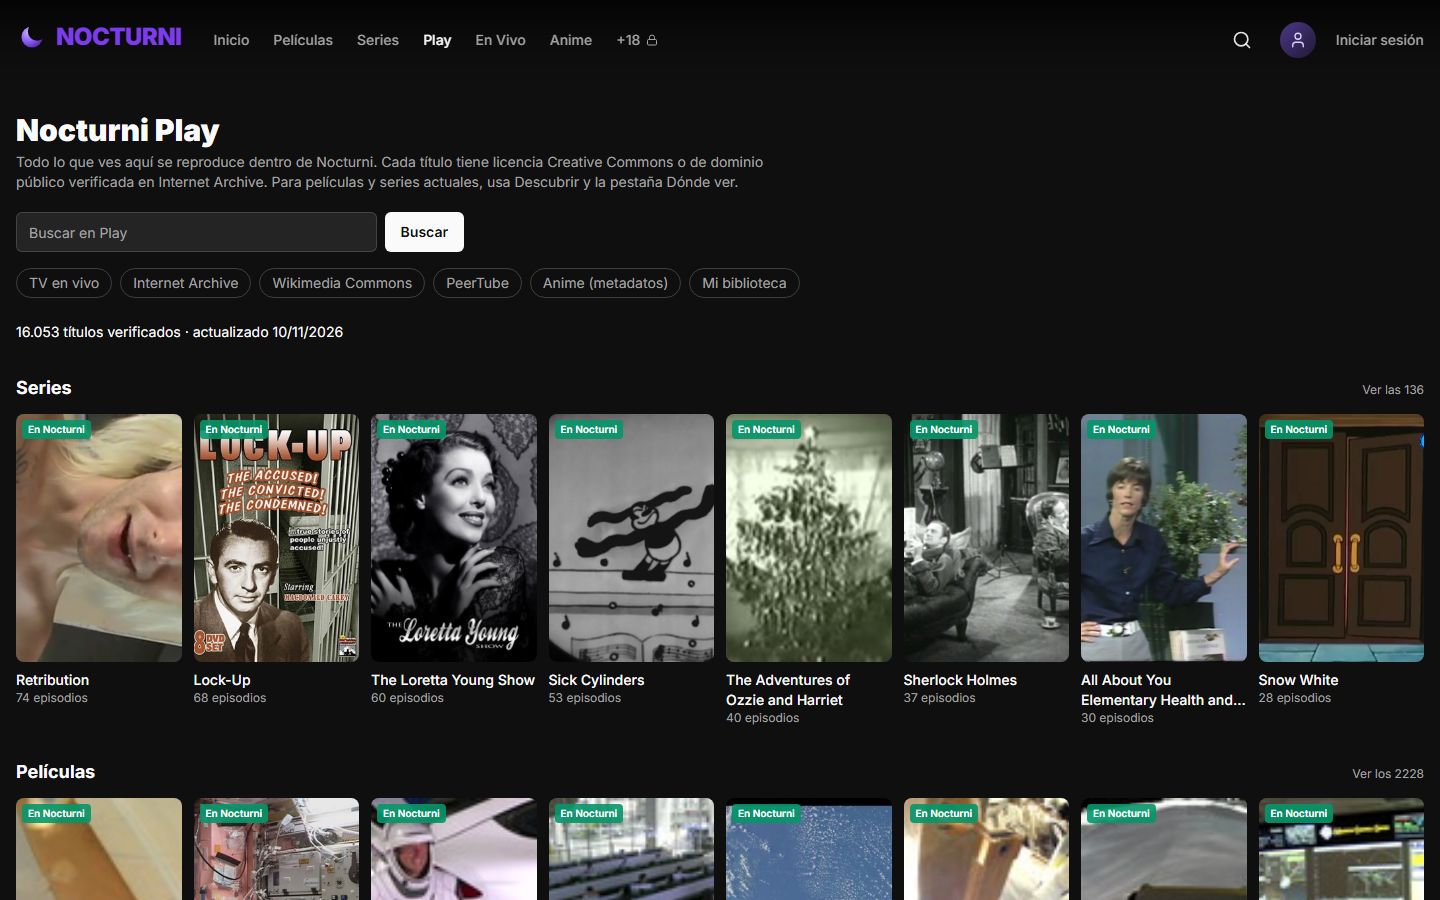
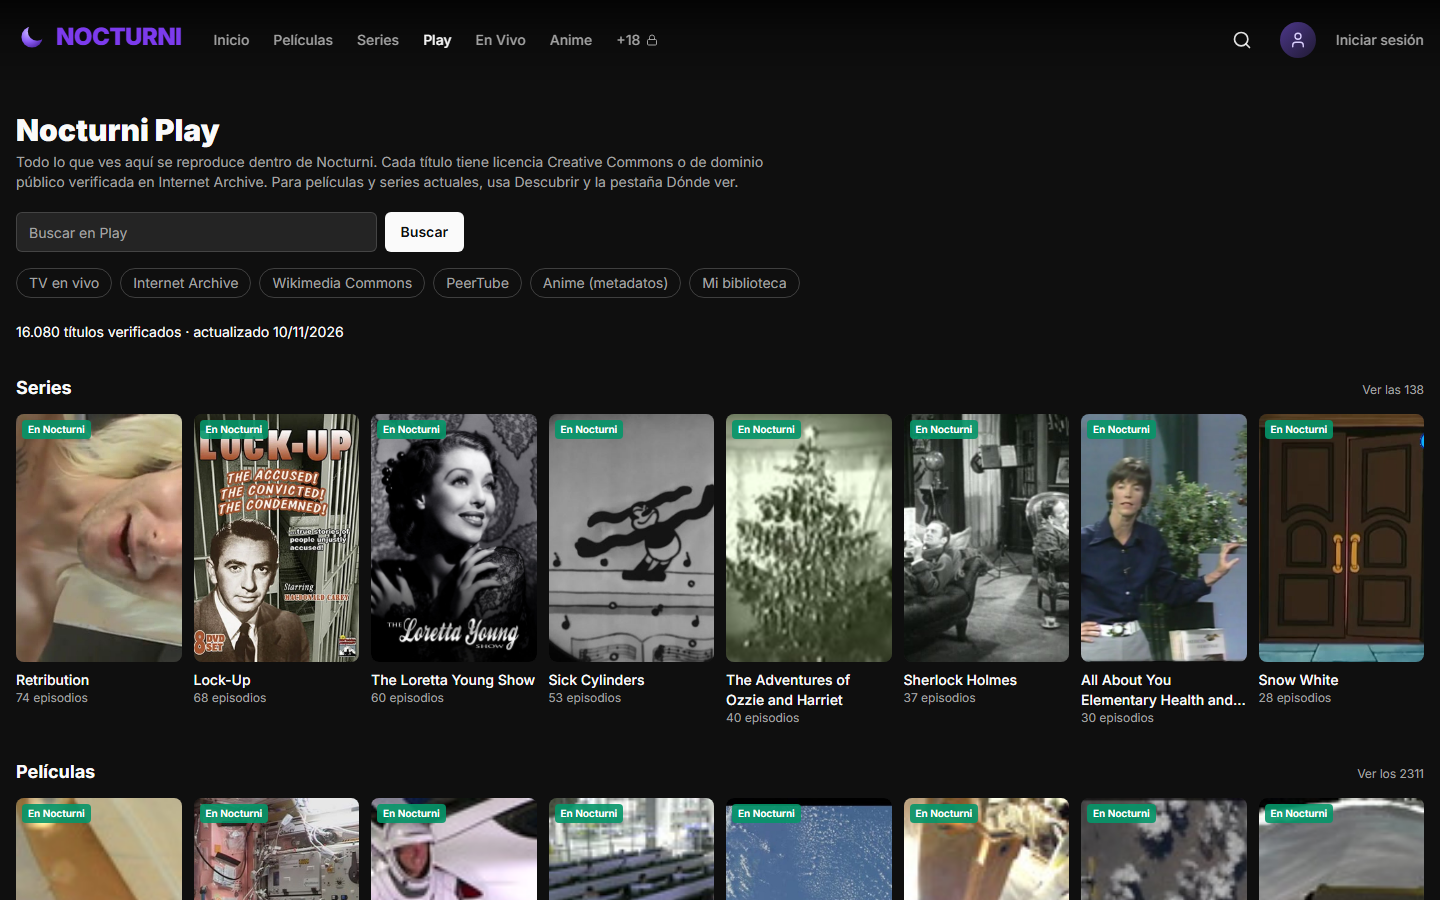
Nocturni: cifras y capturas de Play y de TV en vivo tras la última verificación

Changed region(s): [[0.75, 0.84, 1.0, 1.0], [0.0312, 0.3422, 0.25, 0.3733]]

diff --git a/src/content/projects.ts b/src/content/projects.ts
@@ -1544,19 +1544,22 @@ export const projects: Project[] = [
     gallery: [
       "/images/nocturni/play.png",
       "/images/nocturni/donde-ver.png",
+      "/images/nocturni/live.png",
       "/images/nocturni/home.png",
       "/images/nocturni/movies.png",
     ],
     galleryAlt: {
       en: [
-        "Nocturni Play page showing 16,053 verified titles with a row of classic series and a row of films, each card tagged En Nocturni",
+        "Nocturni Play page showing 16,080 verified titles with a row of classic series and a row of films, each card tagged En Nocturni",
         "Watch page for The Matrix in Nocturni saying the title has no internal source, with a Where to watch section that lists HBO Max for the Dominican Republic and a JustWatch attribution",
+        "Live TV page in Nocturni with search and country and category filters, and a Featured row of international broadcasters such as Bloomberg, Red Bull TV, DW, CNN en Español and Euronews",
         "Nocturni home with a featured-title hero banner and a Popular Movies row",
         "Movies page in Nocturni with Popular, Top Rated and Now Playing tabs, genre filters and a grid of posters",
       ],
       es: [
-        "Página de Nocturni Play con 16.053 títulos verificados, una fila de series clásicas y una de películas, cada tarjeta con la etiqueta En Nocturni",
+        "Página de Nocturni Play con 16.080 títulos verificados, una fila de series clásicas y una de películas, cada tarjeta con la etiqueta En Nocturni",
         "Página de reproducción de Matrix en Nocturni que dice que el título no tiene fuente interna, con una sección Dónde ver que lista HBO Max para República Dominicana y la atribución a JustWatch",
+        "Página de TV en vivo de Nocturni con búsqueda y filtros por país y categoría, y una fila de destacados con emisoras internacionales como Bloomberg, Red Bull TV, DW, CNN en Español y Euronews",
         "Inicio de Nocturni con un banner de título destacado y una fila de películas populares",
         "Página de películas de Nocturni con pestañas de populares, mejor valoradas y en cartelera, filtros por género y una cuadrícula de pósters",
       ],
